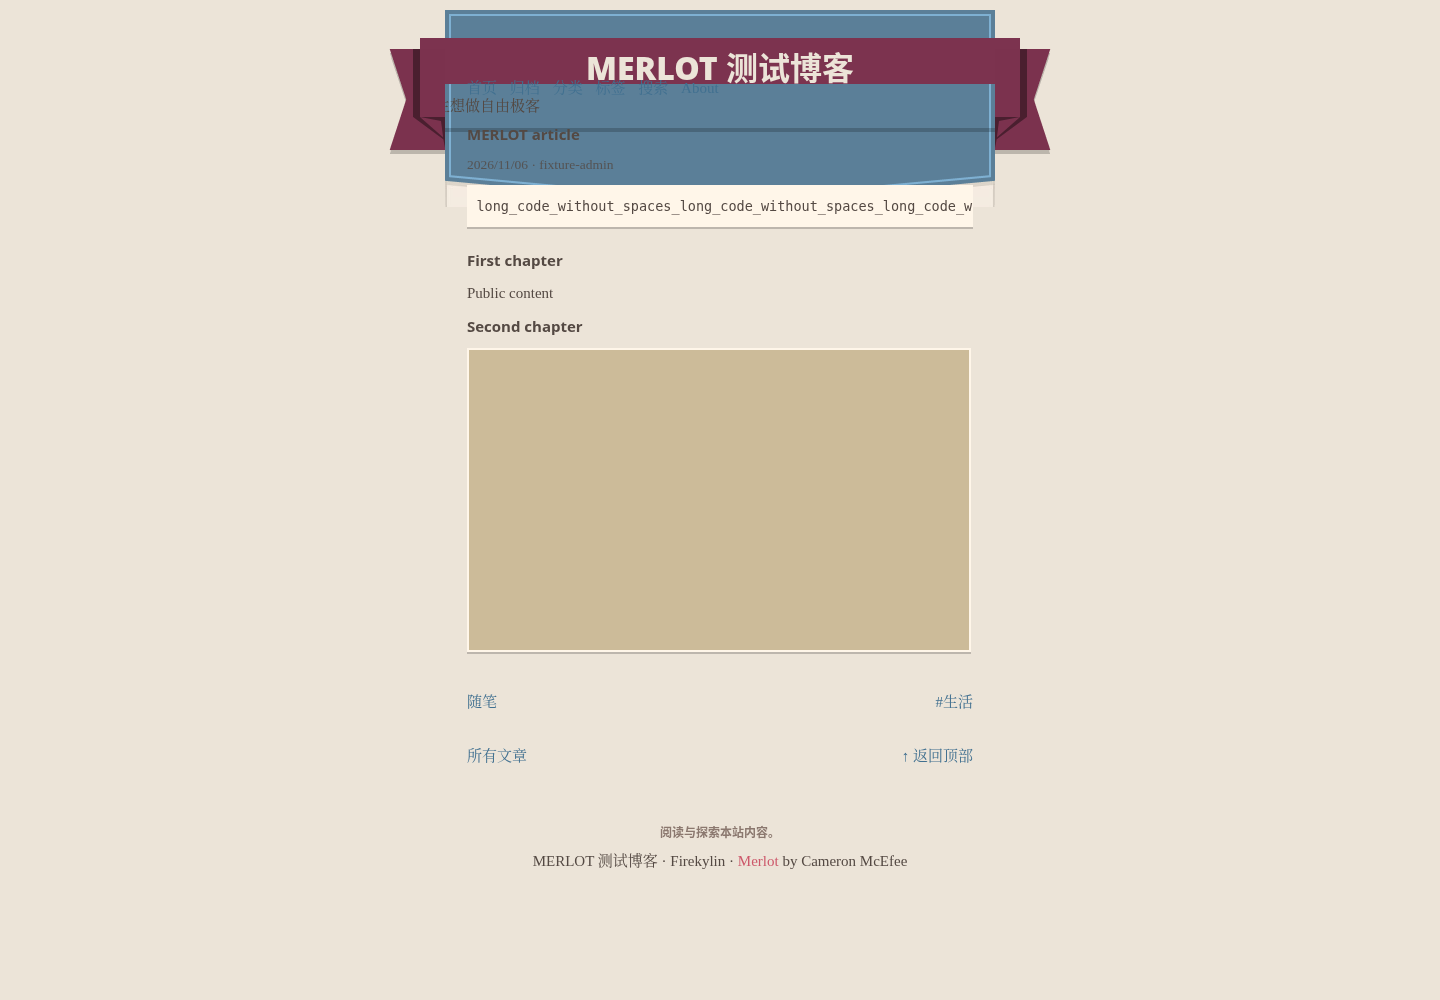
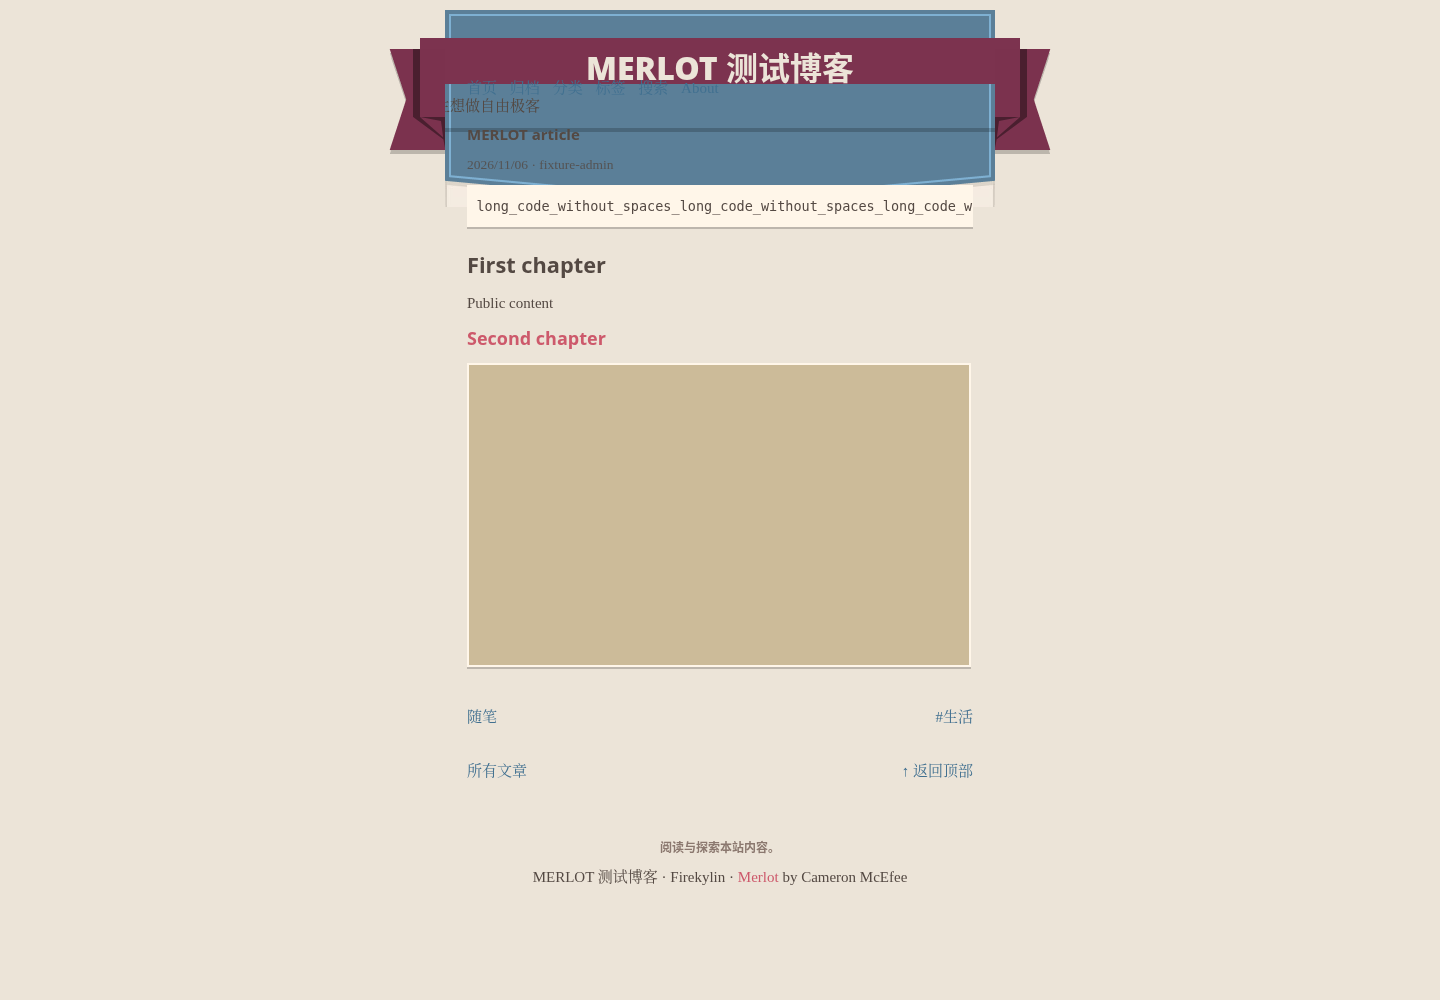
fix: style native Merlot article heading levels

diff --git a/packages/merlot/res/css/theme.css b/packages/merlot/res/css/theme.css
@@ -476,7 +476,7 @@ dd p:first-child {
   margin-top: 0;
 }
 
-.header-level-1 {
+.header-level-1, .prose h1 {
   font-size: 1.85em;
   border-bottom: 0.2em double #d3ccc1;
   color: #7c334f;
@@ -487,7 +487,7 @@ dd p:first-child {
   padding-bottom: 10px;
 }
 
-.header-level-2 {
+.header-level-2, .prose h2 {
   font-size: 1.58em;
   color: #7c334f;
   margin: 0.95em 0 0.5em;
@@ -496,24 +496,24 @@ dd p:first-child {
   padding-bottom: 10px;
 }
 
-.header-level-3 {
+.header-level-3, .prose h3 {
   margin: 20px 0 10px;
   font-size: 1.45em;
 }
 
-.header-level-4 {
+.header-level-4, .prose h4 {
   margin: 0.6em 0;
   font-size: 1.2em;
   color: #cd596b;
 }
 
-.header-level-5 {
+.header-level-5, .prose h5 {
   margin: 0.7em 0;
   font-size: 1em;
   color: #8b786f;
 }
 
-.header-level-6 {
+.header-level-6, .prose h6 {
   margin: 0.8em 0;
   font-size: 0.85em;
   font-style: italic;
